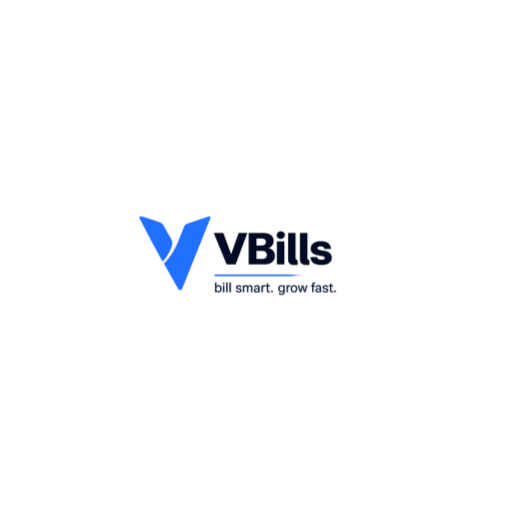
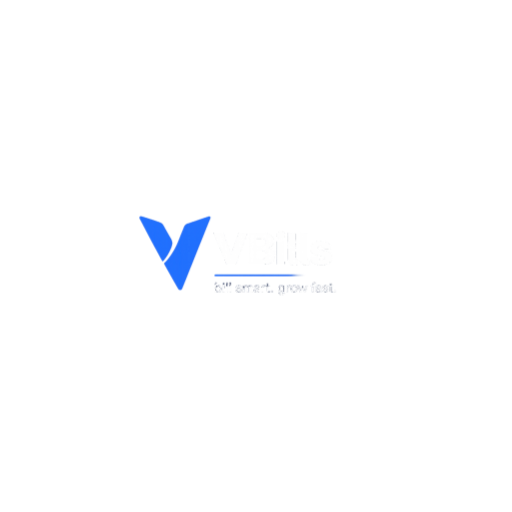
fix: pwa splash screen dark mode inversion and masking

Changed region(s): [[0.4062, 0.4375, 0.6562, 0.5938]]

diff --git a/vite.config.js b/vite.config.js
@@ -23,13 +23,13 @@ export default defineConfig({
             src: 'vbills-icon-white-192.png',
             sizes: '192x192',
             type: 'image/png',
-            purpose: 'any maskable'
+            purpose: 'any'
           },
           {
             src: 'vbills-icon-white-512.png',
             sizes: '512x512',
             type: 'image/png',
-            purpose: 'any maskable'
+            purpose: 'any'
           }
         ],
         categories: ['business', 'productivity'],
